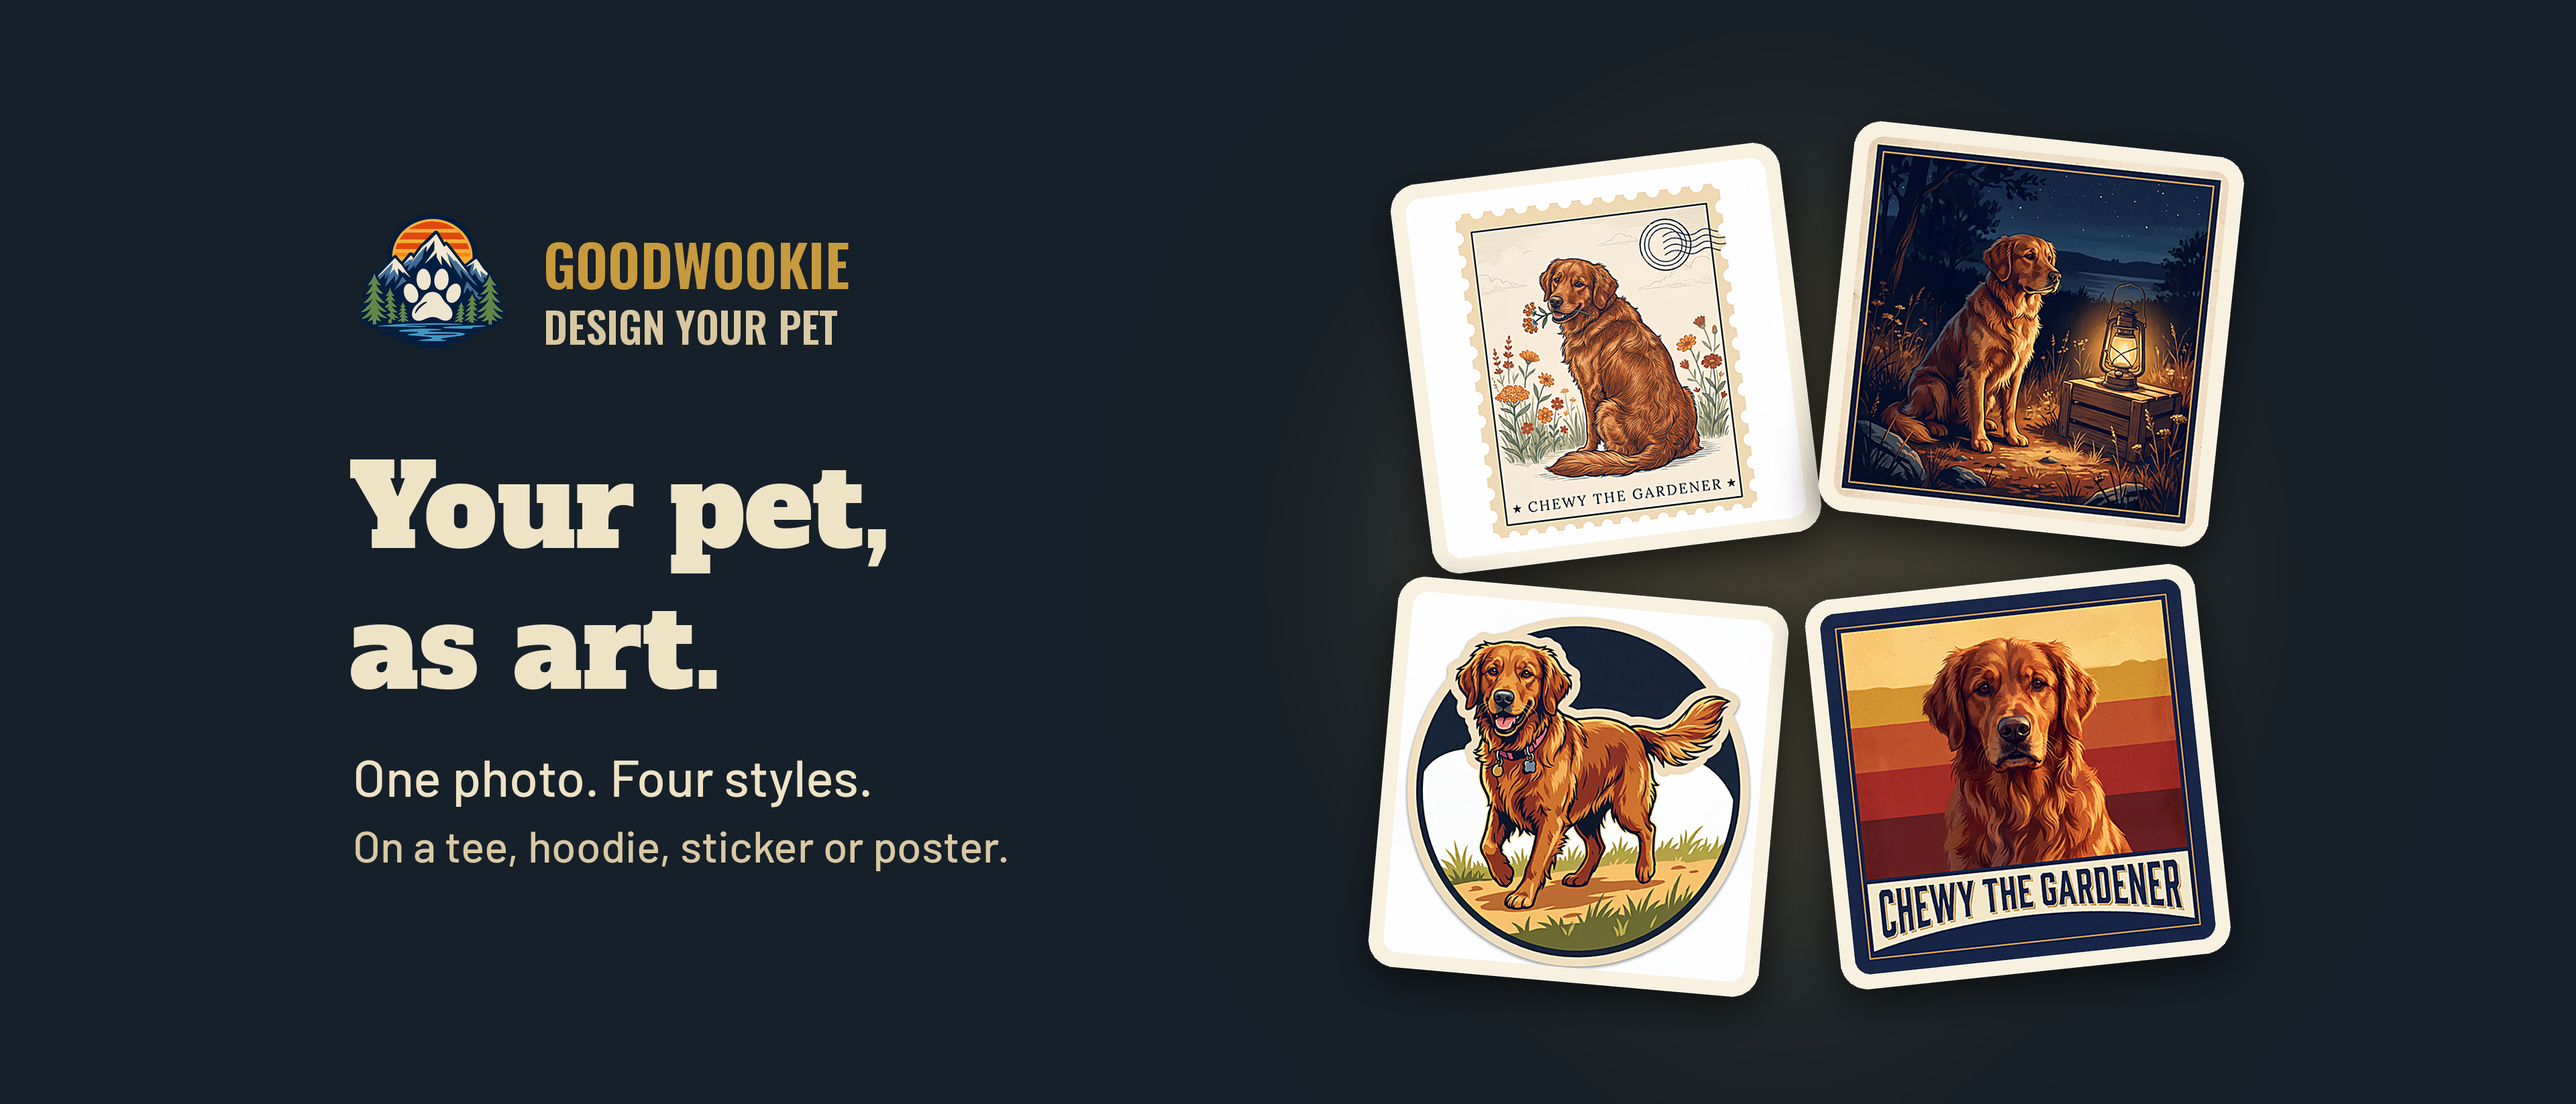
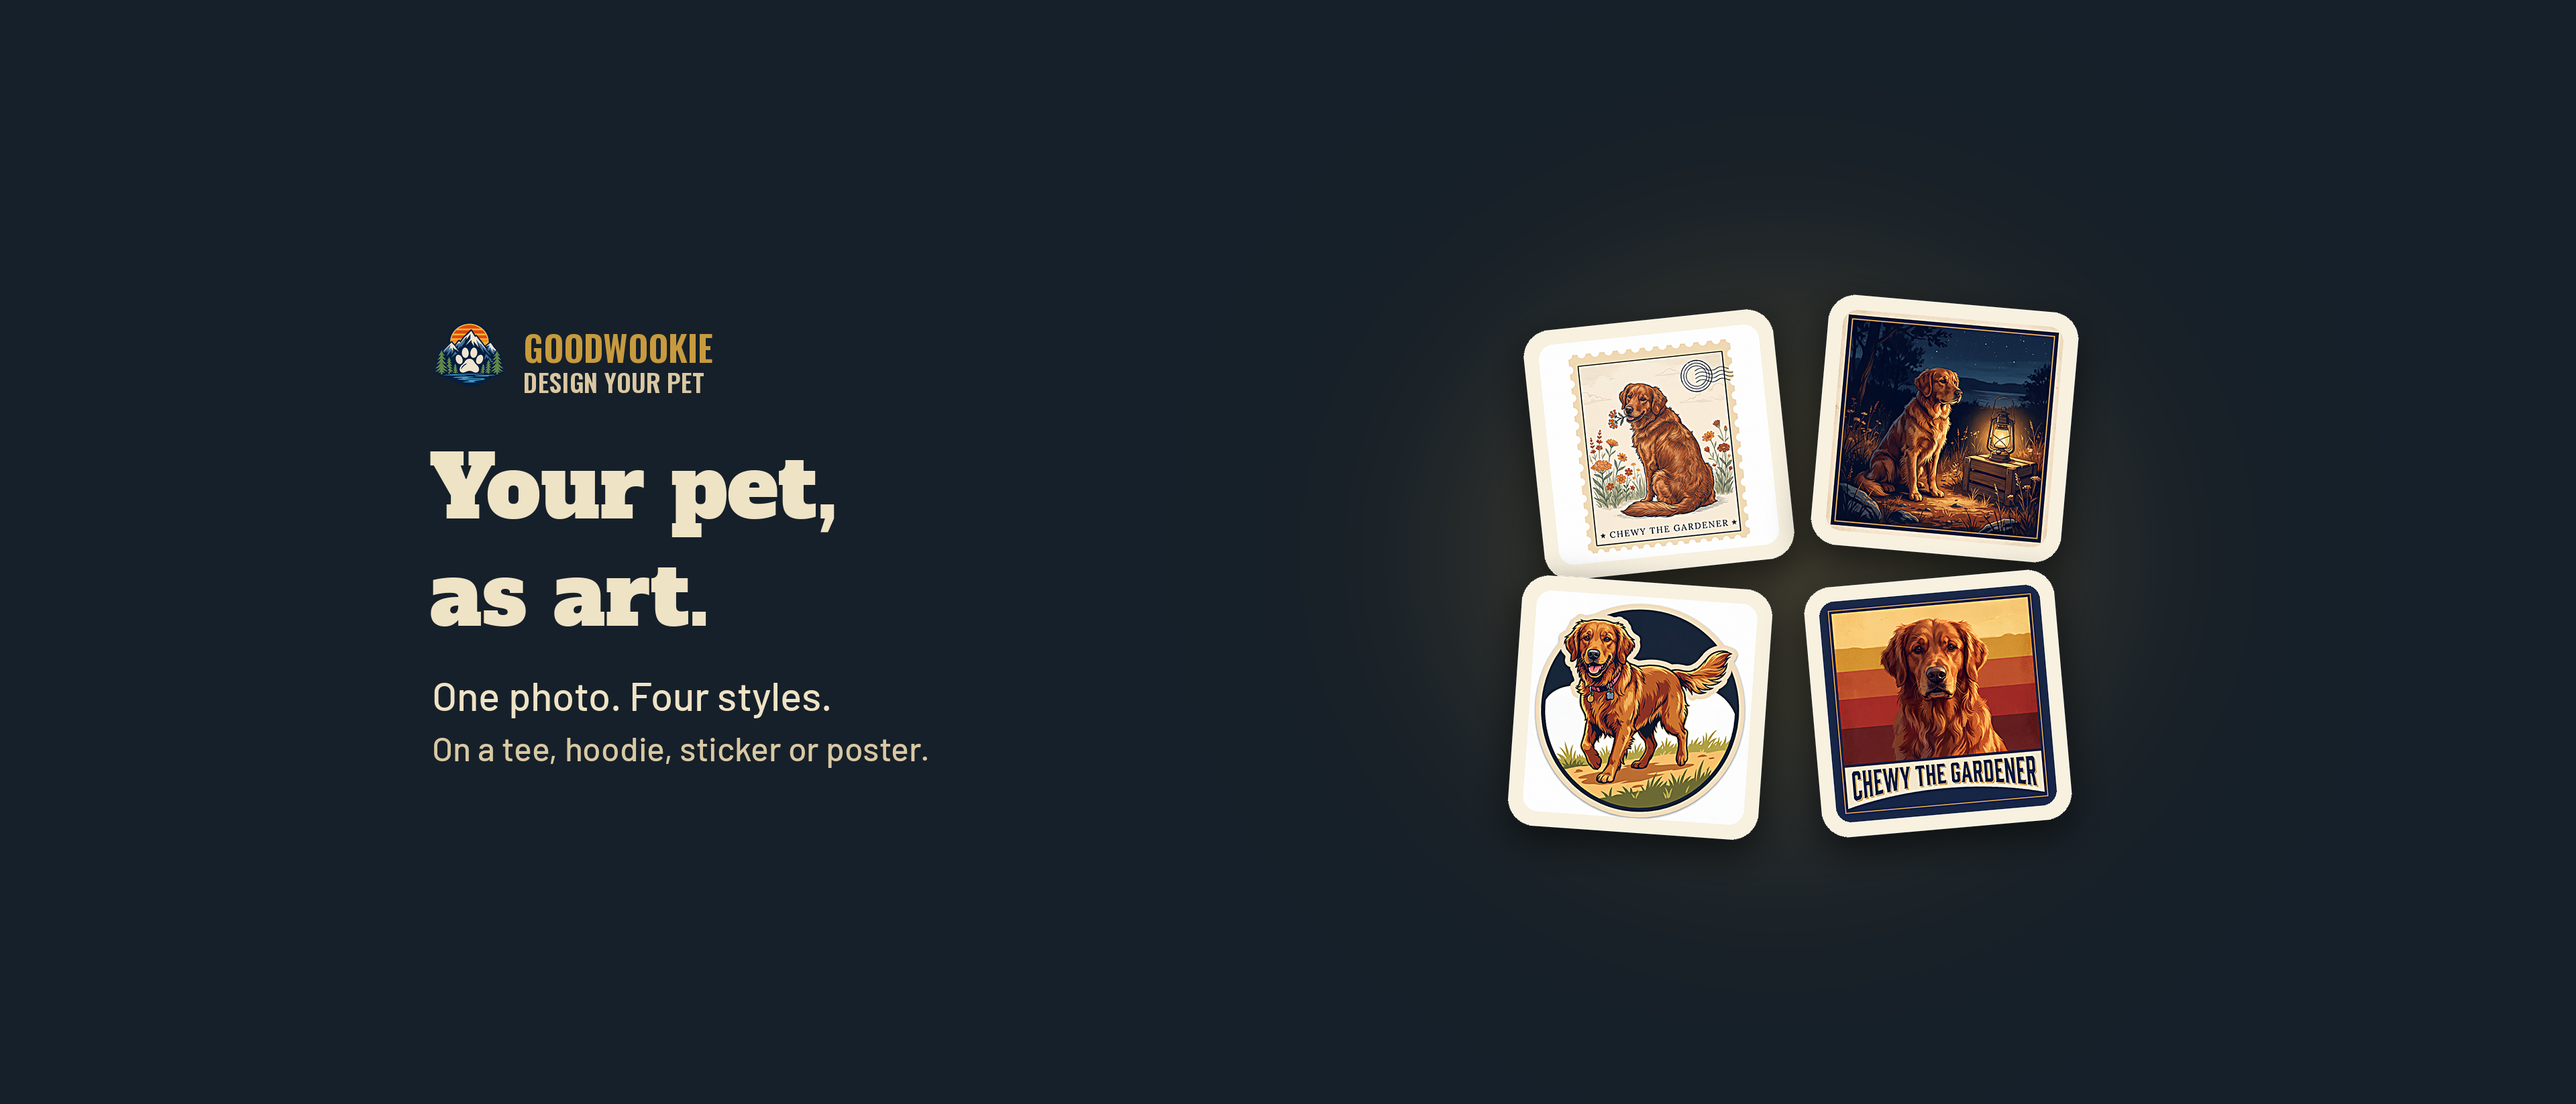
App Store header: keep content in the middle band
Apple's previews put the back/share buttons over the top corners and crop
the top and bottom on iPad landscape. Logo, headline and cards now sit
in the centre band so nothing is covered or cut.

Claude-Session: https://claude.ai/code/session_01DmZk5YN7b5STJ7Ktt7AdMb

Changed region(s): [[0.5312, 0.093, 0.875, 0.8985], [0.125, 0.4028, 0.375, 0.8056], [0.125, 0.1859, 0.3438, 0.3718]]

diff --git a/store/make_appstore_header.py b/store/make_appstore_header.py
@@ -8,7 +8,7 @@ alfa=lambda s: ImageFont.truetype(F+'alfa-slab-one/400Regular/AlfaSlabOne_400Reg
 bar=lambda s: ImageFont.truetype(F+'barlow/500Medium/Barlow_500Medium.ttf',s)
 W,H=3840,1646
 g=Image.new('RGBA',(W,H),NAVY+(255,))
-glow=Image.new('RGBA',(W,H),(0,0,0,0)); ImageDraw.Draw(glow).ellipse((1950,150,3350,1550),fill=GOLD+(60,))
+glow=Image.new('RGBA',(W,H),(0,0,0,0)); ImageDraw.Draw(glow).ellipse((2050,300,3250,1350),fill=GOLD+(60,))
 g.alpha_composite(glow.filter(ImageFilter.GaussianBlur(220)))
 def card(path,size,angle):
     im=Image.open(path).convert('RGBA').resize((size,size),Image.LANCZOS).filter(ImageFilter.UnsharpMask(2,60,2))
@@ -21,18 +21,21 @@ def card(path,size,angle):
     sh=sh.filter(ImageFilter.GaussianBlur(28)); sh.alpha_composite(c,(70,70))
     return sh.rotate(angle,resample=Image.BICUBIC,expand=True)
 st=R+'/assets/images/styles/'
-S=540
-for f,a,(x,y) in [('travel-stamp.png',7,(2060,200)),('evening-portrait.png',-6,(2700,170)),
-                  ('adventure-sticker.png',-5,(2030,850)),('travel-poster.png',6,(2680,830))]:
+# Apple overlays buttons in the top corners and crops top and bottom on some
+# devices (iPad landscape), so everything sits in a middle band, y 440-1230,
+# x 620-3220.
+S=330
+for f,a,(x,y) in [('travel-stamp.png',6,(2260,450)),('evening-portrait.png',-5,(2690,430)),
+                  ('adventure-sticker.png',-4,(2240,850)),('travel-poster.png',5,(2680,840))]:
     c=card(st+f,S,a); g.alpha_composite(c,(x-70,y-70))
 d=ImageDraw.Draw(g)
-paw=Image.open(R+'/assets/images/brand/paw-sunset-icon.webp').convert('RGBA').resize((250,250),Image.LANCZOS)
-X=520
-g.alpha_composite(paw,(X,300))
-d.text((X+290,330),'GOODWOOKIE',font=osw(84),fill=GOLD)
-d.text((X+290,440),'DESIGN YOUR PET',font=osw(62),fill=AGED)
-d.text((X,640),'Your pet,',font=alfa(170),fill=CREAM)
-d.text((X,850),'as art.',font=alfa(170),fill=CREAM)
-d.text((X+6,1110),'One photo. Four styles.',font=bar(78),fill=CREAM)
-d.text((X+6,1220),'On a tee, hoodie, sticker or poster.',font=bar(66),fill=AGED)
+paw=Image.open(R+'/assets/images/brand/paw-sunset-icon.webp').convert('RGBA').resize((120,120),Image.LANCZOS)
+X=640
+g.alpha_composite(paw,(X,470))
+d.text((X+140,478),'GOODWOOKIE',font=osw(52),fill=GOLD)
+d.text((X+140,540),'DESIGN YOUR PET',font=osw(38),fill=AGED)
+d.text((X,640),'Your pet,',font=alfa(128),fill=CREAM)
+d.text((X,800),'as art.',font=alfa(128),fill=CREAM)
+d.text((X+4,1000),'One photo. Four styles.',font=bar(60),fill=CREAM)
+d.text((X+4,1085),'On a tee, hoodie, sticker or poster.',font=bar(50),fill=AGED)
 g.convert('RGB').save(OUT)
